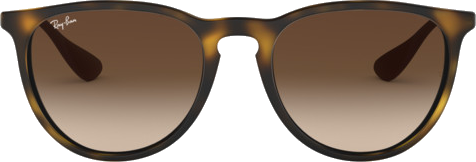
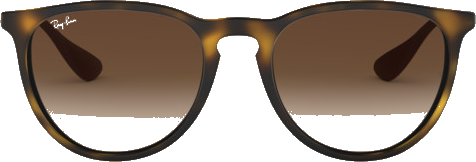
Fix reflection removal, update lens_y_frac for new image dimensions

diff --git a/fetch_glasses.py b/fetch_glasses.py
@@ -110,16 +110,24 @@ def remove_background(img_bytes: bytes, threshold: int = 235) -> Image.Image:
                 visited[ny, nx] = True
                 queue.append((ny, nx))
 
-    # Union: near-white OR flood-fill region
+    # Union: near-white OR flood-fill region → transparent
     bg_mask = near_white | visited
     data[:, :, 3] = np.where(bg_mask, 0, 255)
 
+    # Also remove semi-transparent grey remnants (reflections, shadows):
+    # any pixel whose RGB average is > 160 AND alpha is still set → make transparent
+    grey_remnant = (r.astype(int) + g.astype(int) + b.astype(int)) / 3 > 160
+    data[:, :, 3] = np.where(grey_remnant & (data[:, :, 3] > 0), 0, data[:, :, 3])
+
     result = Image.fromarray(data, "RGBA")
 
-    # Trim to tight bounding box
-    bbox = result.getbbox()
-    if bbox:
-        result = result.crop(bbox)
+    # Trim to tight bounding box of fully-opaque pixels (ignores semi-transparent halo)
+    alpha = np.array(result)[:, :, 3]
+    opaque = np.argwhere(alpha > 128)
+    if len(opaque):
+        y0, x0 = opaque.min(axis=0)
+        y1, x1 = opaque.max(axis=0)
+        result = result.crop((x0, y0, x1 + 1, y1 + 1))
 
     return result
 
